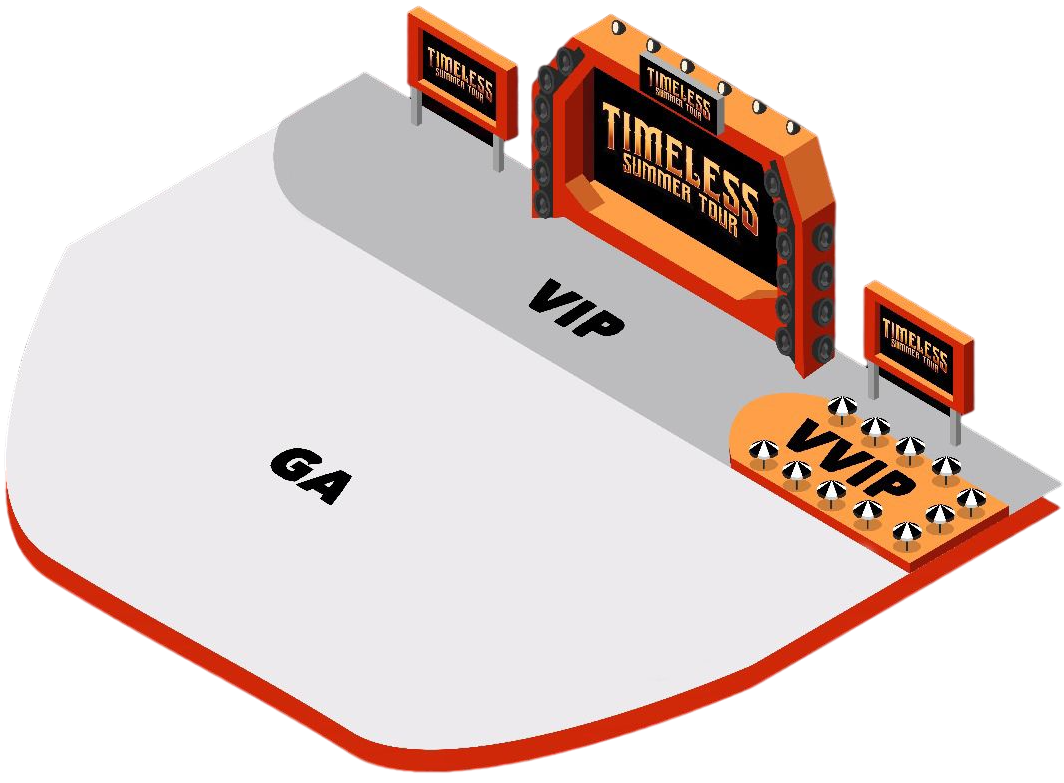
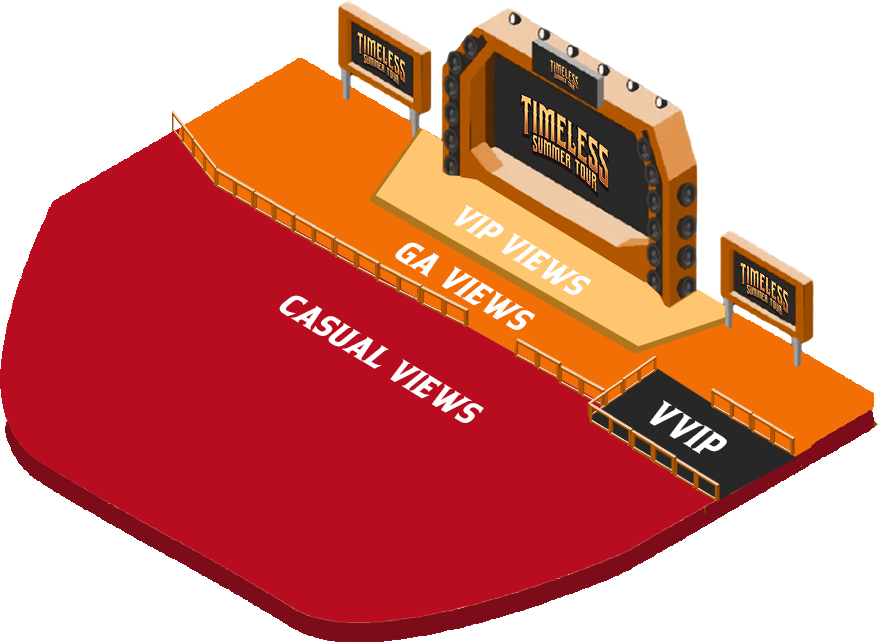
added  new tier to tickets

diff --git a/app/aus/tickets/venues.js b/app/aus/tickets/venues.js
@@ -4,8 +4,28 @@ const yarra_valley = {
   time: "JAN 24;2PM-10PM",
   order: 1,
   ticketLink: "https://www.ticketfairy.com/event/timeless-summer-tour-yarra-valley",
-  sitemap: "/venues/yarra-valley-sitemap.jpeg",
+  sitemap: "/venues/sitemap-yarra-valley.jpg",
   tiers: [
+    {
+      id: "casual",
+      title: "Casual Views",
+      prices: (
+        <>
+          <b>$159</b>
+          <p className="text-sm">Plus booking fees</p>
+        </>
+      ),
+      inclusions: (
+        <ul className="lg:columns-2 gap-x-4 list-disc">
+          <li>Entry into Timeless Summer Tour.</li>
+          <li>Admission to the relaxed Casual Views area.</li>
+          <li>Access to food and merchandise vendors.</li>
+          <li>Access to bars and toilets.</li>
+          <li>Access to water refill stations.</li>
+          <li>The experience of seeing some of your favourite legendary artists perform live.</li>
+        </ul>
+      ),
+    },
     {
       id: "ga",
       title: "General Admission",
@@ -210,8 +230,28 @@ const hunter_valley = {
   time: "JAN 25;3:30PM-10PM",
   order: 2,
   ticketLink: "https://www.ticketfairy.com/event/timeless-summer-tour-hunter-valley",
-  sitemap: "/venues/hunter-valley-sitemap.jpeg",
+  sitemap: "/venues/sitemap-hunter-valley.jpg",
   tiers: [
+    {
+      id: "casual",
+      title: "Casual Views",
+      prices: (
+        <>
+          <b>$159</b>
+          <p className="text-sm">Plus booking fees</p>
+        </>
+      ),
+      inclusions: (
+        <ul className="lg:columns-2 gap-x-4 list-disc">
+          <li>Entry into Timeless Summer Tour.</li>
+          <li>Admission to the relaxed Casual Views area.</li>
+          <li>Access to food and merchandise vendors.</li>
+          <li>Access to bars and toilets.</li>
+          <li>Access to water refill stations.</li>
+          <li>The experience of seeing some of your favourite legendary artists perform live.</li>
+        </ul>
+      ),
+    },
     {
       id: "golden-views",
       title: "Platinum",
@@ -403,9 +443,37 @@ const sandstone = {
   title: "Sandstone",
   time: "JAN 27;1PM-8:30PM",
   slug: "sandstone",
-  sitemap: "/venues/sandstone-sitemap.jpeg",
+  sitemap: "/venues/sitemap-sand-stone-point.jpg",
   order: 3,
   tiers: [
+    {
+      id: "casual",
+      title: "Casual Views",
+      prices: (
+        <>
+          <b>$159</b>
+          <p className="text-sm">Plus booking fees</p>
+          <a
+            href="https://www.ticketfairy.com/event/timeless-summer-tour-sandstone"
+            target="_blank"
+            className={
+              "inline-flex justify-center w-full mt-3 bg-primary border-2 border-black text-center uppercase font-back text-lg  lg:text-2xl py-2 lg:py-4 hover:bg-black hover:text-white hover:shadow-lg transition-all"
+            }>
+            <span className="">Buy Tickets Now</span>
+          </a>
+        </>
+      ),
+      inclusions: (
+        <ul className="lg:columns-2 gap-x-4 list-disc">
+          <li>Entry into Timeless Summer Tour.</li>
+          <li>Admission to the relaxed Casual Views area.</li>
+          <li>Access to food and merchandise vendors.</li>
+          <li>Access to bars and toilets.</li>
+          <li>Access to water refill stations.</li>
+          <li>The experience of seeing some of your favourite legendary artists perform live.</li>
+        </ul>
+      ),
+    },
     {
       id: "ga",
       title: "General Admission",

diff --git a/components/Venue.js b/components/Venue.js
@@ -96,6 +96,35 @@ export default function Venue({ venue }) {
           <span className="">Buy Tickets Now</span>
         </a>
       )}
+      <motion.div
+        initial={{ opacity: 0 }}
+        animate={{ opacity: 1 }}
+        transition={{ delay: 0 }}
+        className="w-full flex max-lg:flex-col gap-5 xl:gap-10 2xl:gap-16 bg-white p-5 lg:p-7 xl:p-10  ">
+        <div className="flex flex-col w-fit xl:min-w-max xl:w-full xl:max-w-[320px]">
+          <p className="font-matiz uppercase text-black text-lg xl:text-2xl tracking-tighter">
+            Casual Views Price:
+          </p>
+          <div className={"text-black mt-5 lg:text-xl"}>
+            <p>$159 </p>
+            <p>Plus Booking Fees</p>
+          </div>
+        </div>
+        <div className="h-full w-px bg-black/25"></div>
+        <div className="flex flex-col">
+          <p className="font-matiz uppercase text-black text-lg xl:text-2xl tracking-tighter">
+            Casual Views Inclusions:
+          </p>
+          <ul className="lg:columns-2 gap-x-4 list-disc">
+            <li>Entry into Timeless Summer Tour.</li>
+            <li>Admission to the relaxed Casual Views area.</li>
+            <li>Access to food and merchandise vendors.</li>
+            <li>Access to bars and toilets.</li>
+            <li>Access to water refill stations.</li>
+            <li>The experience of seeing some of your favourite legendary artists perform live.</li>
+          </ul>
+        </div>
+      </motion.div>
       {tiers.map((tier, i) =>
         tier.prices ? (
           <motion.div

diff --git a/components/VenueAus.js b/components/VenueAus.js
@@ -55,7 +55,7 @@ export default function Venue({ venue }) {
         </div>
       ) : (
         ""
-      )}
+      )}{" "}
       {tiers.map((tier, i) => (
         <motion.div
           initial={{ opacity: 0 }}
@@ -98,7 +98,6 @@ export default function Venue({ venue }) {
           alt="Sitemap"
         />
       )}
-
       <FreeHatSection type="small" country="aus" />
       <SitemapModal show={showModal} imgSrc={sitemap} setShow={setShowModal} />
     </div>
